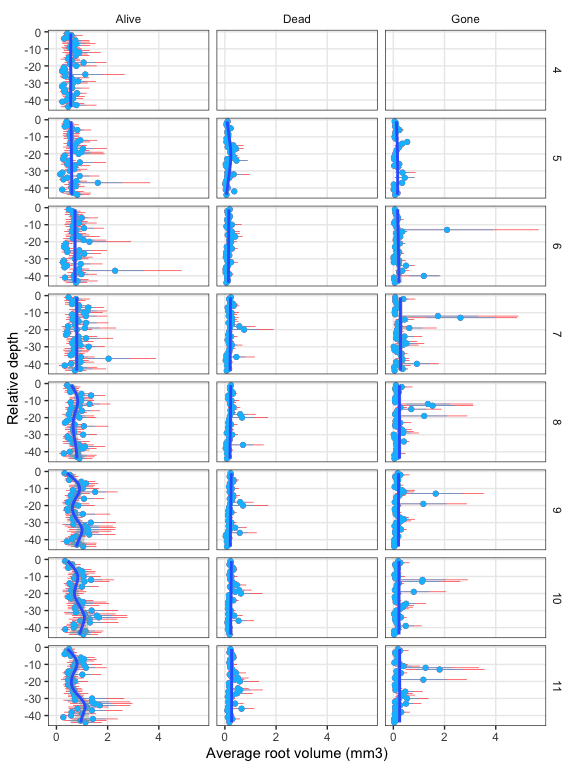
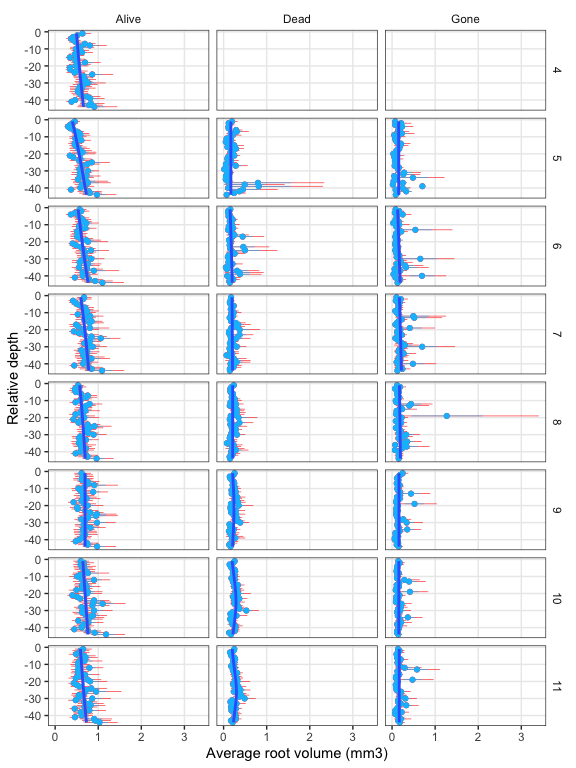
Add models and resulting updated figures. Now includes experimental treatment application.

diff --git a/production_turnover.md b/production_turnover.md
@@ -79,9 +79,9 @@ tube.”
 
 Number of new root IDs since initiation in April
 
-April roots: 1403
+April roots: 5409
 
-New roots: 2596
+New roots: 8911
 
 That’s more new root IDs than I thought there would be.
 
@@ -101,6 +101,29 @@ That’s more new root IDs than I thought there would be.
 2.  Length, Diameter, Production, Turnover by Day of Year (Month)
 
 <!-- Size (diameter) & depth biplot of days to senescence -->
+
+    ## # A tibble: 86,629 x 38
+    ##    obs_ID root_ID SampleId RootName  Tube Location Date        Time Session
+    ##    <chr>  <chr>   <chr>    <chr>    <dbl>    <dbl> <date>     <dbl>   <dbl>
+    ##  1 1_1_1… 1_1_R1  BRUROOT… R1           1        1 2020-04-21 94911       1
+    ##  2 1_1_1… 1_1_R2  BRUROOT… R2           1        1 2020-04-21 94911       1
+    ##  3 1_1_2… 1_2_R1  BRUROOT… R1           1        2 2020-04-21 94925       1
+    ##  4 1_1_2… 1_2_R2  BRUROOT… R2           1        2 2020-04-21 94925       1
+    ##  5 1_1_2… 1_2_R3  BRUROOT… R3           1        2 2020-04-21 94925       1
+    ##  6 1_1_2… 1_2_R4  BRUROOT… R4           1        2 2020-04-21 94925       1
+    ##  7 1_1_2… 1_2_R5  BRUROOT… R5           1        2 2020-04-21 94925       1
+    ##  8 1_1_2… 1_2_R6  BRUROOT… R6           1        2 2020-04-21 94925       1
+    ##  9 1_1_2… 1_2_R7  BRUROOT… R7           1        2 2020-04-21 94925       1
+    ## 10 1_1_2… 1_2_R8  BRUROOT… R8           1        2 2020-04-21 94925       1
+    ## # … with 86,619 more rows, and 29 more variables: DataGatherer <chr>,
+    ## #   BirthSession <dbl>, DeathSession <dbl>, TotLength_mm <dbl>,
+    ## #   TotProjArea_mm2 <dbl>, TotSurfArea_mm2 <dbl>, TotAvgDiam_mm <dbl>,
+    ## #   TotVolume_mm3 <dbl>, Length_mm <dbl>, ProjArea_mm2 <dbl>,
+    ## #   SurfArea_mm2 <dbl>, AvgDiam_mm <dbl>, Volume_mm3 <dbl>, TipDiam <dbl>,
+    ## #   TipLivStatus <chr>, HighestOrder <dbl>, ExtPathLength <dbl>,
+    ## #   Altitude <dbl>, root_status <chr>, rowID <chr>, Month <dbl>,
+    ## #   length_bin <fct>, diam_bin <fct>, block <dbl>, composition <chr>,
+    ## #   plot <dbl>, subplot <chr>, treatment <chr>, type <chr>
 
 ## Production and loss (change) of individual roots
 
@@ -124,18 +147,18 @@ can then be aggregated to the depth window.
 ## given the definition of gross gain & loss could do only 'Alive'
 ind_chg <- df %>% 
   select(obs_ID, root_ID, Tube, Location, Date, Session, Month, root_status, 
-         Length_mm, AvgDiam_cm, Volume_mm3) %>% 
+         Length_mm, AvgDiam_mm, Volume_mm3, treatment) %>% 
   arrange(root_ID, Session) %>% 
-  group_by(root_ID, root_status, Tube, Location) %>% 
+  group_by(root_ID, root_status, Tube, Location, treatment) %>% 
   # lag subtracts the previous value; NAs when there is no value to subtract
   mutate(length_change = Length_mm - lag(Length_mm, n = 1),
-         diam_change = AvgDiam_cm - lag(AvgDiam_cm, n = 1),
+         diam_change = AvgDiam_mm - lag(AvgDiam_mm, n = 1),
          volume_change = Volume_mm3 - lag(Volume_mm3, n = 1)) %>% 
   ungroup(.)
 
 ## Not a very elegant solution follows...
 ind_gross_chg <- ind_chg %>% 
-  # select(-Length_mm:-Volume_mm3) %>%
+  select(-Length_mm:-Volume_mm3) %>%
   rename(length = length_change, diameter = diam_change, 
          volume = volume_change) %>% 
   # long format to use metric as grouping variable
@@ -145,7 +168,7 @@ ind_gross_chg <- ind_chg %>%
 growth <- ind_gross_chg %>% 
   # summarise growth of existing roots to each depth
   filter(root_status == 'Alive', value >= 0) %>% 
-  group_by(Tube, Location, Month, name) %>% 
+  group_by(Tube, Location, Month, name, treatment) %>% 
   summarise(root_growth = sum(value)) %>% 
   ungroup(.)
 # summary(growth)
@@ -154,17 +177,20 @@ growth <- ind_gross_chg %>%
 new_roots <- ind_gross_chg %>%
   # only roots that have NA for the change value
   filter(Month > 4, root_status == 'Alive', is.na(value)) %>% 
-  distinct(root_ID, Tube, Location, Month) %>% 
+  distinct(root_ID, Tube, Location, Month, treatment) %>% 
   # get only these root IDs & recombine with gross values
   left_join(., ind_chg %>% select(root_ID, Tube, Location, Month, Length_mm:Volume_mm3)) %>%
   # rename in prep for joining with 'growth' data frame
-  rename(length = Length_mm, diameter = AvgDiam_cm, 
+  rename(length = Length_mm, diameter = AvgDiam_mm, 
          volume = Volume_mm3) %>%
   # match data format of 'growth'
   pivot_longer(length:volume) %>% 
-  group_by(Tube, Location, Month, name) %>% 
+  group_by(Tube, Location, Month, name, treatment) %>% 
   summarise(new_roots = sum(value)) %>% 
   ungroup(.)
+# summary(new_roots)
+# new_roots %>% filter(new_roots>100)
+
 # join growth with new roots
 gain_depth <- left_join(growth, new_roots)
 # add growth & new roots to get gross gain
@@ -174,12 +200,30 @@ gain_depth <- gain_depth %>%
     new_roots = ifelse(is.na(new_roots), 0, new_roots),
     gross_gain = root_growth + new_roots
     )
+gain_depth %>% summary()
+```
 
+    ##       Tube         Location         Month           name          
+    ##  Min.   : 1.0   Min.   : 1.00   Min.   : 5.00   Length:16255      
+    ##  1st Qu.: 7.0   1st Qu.:10.00   1st Qu.: 6.00   Class :character  
+    ##  Median :12.0   Median :21.00   Median : 8.00   Mode  :character  
+    ##  Mean   :12.4   Mean   :21.39   Mean   : 8.04                     
+    ##  3rd Qu.:18.0   3rd Qu.:32.00   3rd Qu.:10.00                     
+    ##  Max.   :24.0   Max.   :44.00   Max.   :11.00                     
+    ##   treatment          root_growth         new_roots          gross_gain       
+    ##  Length:16255       Min.   : 0.00000   Min.   :  0.0000   Min.   :  0.00000  
+    ##  Class :character   1st Qu.: 0.00000   1st Qu.:  0.0000   1st Qu.:  0.03277  
+    ##  Mode  :character   Median : 0.04462   Median :  0.0422   Median :  0.38890  
+    ##                     Mean   : 1.20244   Mean   :  2.2153   Mean   :  3.41773  
+    ##                     3rd Qu.: 0.61790   3rd Qu.:  0.8222   3rd Qu.:  2.09355  
+    ##                     Max.   :55.05780   Max.   :191.7091   Max.   :195.50220
+
+``` r
 # gross loss = loss in 'Alive' + 'Dead' + 'Gone' 
 # get loss in 'Alive' roots (analogous to 'growth')
 loss <- ind_gross_chg %>%
   filter(root_status == 'Alive' & value < 0) %>% 
-  group_by(Tube, Location, Month, name) %>% 
+  group_by(Tube, Location, Month, name, treatment) %>% 
   summarise(root_loss = sum(abs(value))) %>% 
   ungroup(.)
 
@@ -189,12 +233,12 @@ dead_gone <- ind_gross_chg %>%
   filter(Month > 4, root_status %in% c('Dead', 'Gone'),
          is.na(value)) %>% 
   # get only these root IDs & recombine with gross values
-  distinct(root_ID, Tube, Location, Month) %>% 
-  left_join(., ind_chg %>% select(root_ID, Tube, Location, Month, Length_mm:Volume_mm3)) %>%
-  rename(length = Length_mm, diameter = AvgDiam_cm,
+  distinct(root_ID, Tube, Location, Month, treatment) %>% 
+  left_join(., ind_chg %>% select(root_ID, Tube, Location, Month, Length_mm:Volume_mm3, treatment)) %>%
+  rename(length = Length_mm, diameter = AvgDiam_mm,
          volume = Volume_mm3) %>%
   pivot_longer(length:volume) %>% 
-  group_by(Tube, Location, Month, name) %>% 
+  group_by(Tube, Location, Month, name, treatment) %>% 
   summarise(dg_roots = sum(value)) %>% 
   ungroup(.)
 
@@ -202,11 +246,29 @@ loss_depth <- left_join(dead_gone, loss)
 loss_depth <- loss_depth %>% 
   mutate(root_loss = ifelse(is.na(root_loss), 0, root_loss),
     gross_loss = dg_roots + root_loss)
+summary(loss_depth)
+```
 
+    ##       Tube          Location         Month            name          
+    ##  Min.   : 1.00   Min.   : 1.00   Min.   : 5.000   Length:11628      
+    ##  1st Qu.: 7.00   1st Qu.: 8.00   1st Qu.: 6.000   Class :character  
+    ##  Median :12.00   Median :19.00   Median : 8.000   Mode  :character  
+    ##  Mean   :12.57   Mean   :19.83   Mean   : 7.987                     
+    ##  3rd Qu.:18.00   3rd Qu.:30.00   3rd Qu.:10.000                     
+    ##  Max.   :24.00   Max.   :44.00   Max.   :11.000                     
+    ##   treatment            dg_roots         root_loss         gross_loss      
+    ##  Length:11628       Min.   : 0.0012   Min.   : 0.0000   Min.   :  0.0012  
+    ##  Class :character   1st Qu.: 0.2394   1st Qu.: 0.0000   1st Qu.:  0.3794  
+    ##  Mode  :character   Median : 0.6838   Median : 0.1011   Median :  1.0079  
+    ##                     Mean   : 3.2680   Mean   : 1.8182   Mean   :  5.0862  
+    ##                     3rd Qu.: 2.7437   3rd Qu.: 1.2390   3rd Qu.:  5.2337  
+    ##                     Max.   :94.6837   Max.   :63.2020   Max.   :140.3168
+
+``` r
 # Combine so that gross gain and gross loss are in one data frame
 gross_change <- df %>%
   filter(Month > 4) %>% 
-  distinct(Tube, Location, Month) %>% 
+  distinct(Tube, Location, Month, treatment) %>% 
   left_join(., gain_depth) %>% 
   left_join(., loss_depth)
 ```
@@ -222,41 +284,42 @@ Sanity Check
 ``` r
 df1 <- left_join(
   df %>% filter(root_status == "Alive") %>% 
-    group_by(Tube, Location, Month) %>% 
+    group_by(Tube, Location, Month, treatment) %>% 
     summarise(TotLength_mm = sum(TotLength_mm)),
   gross_change %>% 
     filter(name == "length")
-)
+) %>% 
+  ungroup(.)
 df1 <- df1 %>% 
   select(Tube:TotLength_mm, gross_gain, gross_loss) %>% 
   mutate(calc_net = lag(TotLength_mm, n = 1) + gross_gain - gross_loss)
+# View(df1)
 
 # A peek at the resulting dataframe
 df1
 ```
 
-    ## # A tibble: 2,521 x 7
-    ## # Groups:   Tube, Location [347]
-    ##     Tube Location Month TotLength_mm gross_gain gross_loss calc_net
-    ##    <dbl>    <dbl> <dbl>        <dbl>      <dbl>      <dbl>    <dbl>
-    ##  1    12        1     4       105.         NA        NA        NA  
-    ##  2    12        1     5       130.         39.3      12.6     132. 
-    ##  3    12        1     6        74.5        21.2      76.9      74.5
-    ##  4    12        1     7         9.79       NA        NA        NA  
-    ##  5    12        1     8        20.9        15.8       4.70     20.9
-    ##  6    12        1    11         4.44       NA        NA        NA  
-    ##  7    12        2     4        46.5        NA        NA        NA  
-    ##  8    12        2     5        63.7        20.9       3.66     63.7
-    ##  9    12        2     6        59.8        24.1      28.0      59.8
-    ## 10    12        2     7        41.9        18.2      36.1      41.9
-    ## # … with 2,511 more rows
+    ## # A tibble: 7,485 x 8
+    ##     Tube Location Month treatment TotLength_mm gross_gain gross_loss calc_net
+    ##    <dbl>    <dbl> <dbl> <chr>            <dbl>      <dbl>      <dbl>    <dbl>
+    ##  1     1        1     4 control           23.2      NA         NA        NA  
+    ##  2     1        1     5 control           11.3      NA         NA        NA  
+    ##  3     1        1     6 control           62.3      37.7        1.78     47.2
+    ##  4     1        1     7 control           76.2      37.9       24.0      76.2
+    ##  5     1        1     8 control           78.5       7.59      16.7      67.1
+    ##  6     1        1     9 control           36.6      11.6       53.6      36.6
+    ##  7     1        1    10 control           65.6       9.52      23.3      22.8
+    ##  8     1        1    11 control           77.7      18.6        6.40     77.7
+    ##  9     1        2     4 control           27.0      NA         NA        NA  
+    ## 10     1        2     5 control           54.0      42.8       15.7      54.0
+    ## # … with 7,475 more rows
 
 ``` r
 ggplot(df1, aes(TotLength_mm, calc_net)) +
   geom_point() +
   geom_abline(slope = 1) +
   ylab("Calculated net of gross gain and gross loss") +
-  xlab("Observed minirhizo length (mm)") +
+  xlab("Observed minirhizo TotLength (mm)") +
   theme_classic() +
   NULL
 ```
@@ -269,7 +332,71 @@ ggplot(df1, aes(TotLength_mm, calc_net)) +
 with(df1, cor(calc_net, TotLength_mm, use = "complete.obs"))
 ```
 
-    ## [1] 0.9975949
+    ## [1] 0.9977771
+
+![](production_turnover_files/figure-gfm/model%20gross%20change-1.png)<!-- -->
+
+    ## Linear mixed model fit by REML ['lmerMod']
+    ## Formula: gl_sum ~ clipped + clipped:manure + (1 | Location) + (1 | Tube)
+    ##    Data: d
+    ## 
+    ## REML criterion at convergence: 10162.3
+    ## 
+    ## Scaled residuals: 
+    ##     Min      1Q  Median      3Q     Max 
+    ## -3.3366 -0.6148 -0.1965  0.4938  4.2910 
+    ## 
+    ## Random effects:
+    ##  Groups   Name        Variance Std.Dev.
+    ##  Location (Intercept)  274.9   16.58   
+    ##  Tube     (Intercept)  745.0   27.30   
+    ##  Residual             1237.7   35.18   
+    ## Number of obs: 1007, groups:  Location, 44; Tube, 24
+    ## 
+    ## Fixed effects:
+    ##                      Estimate Std. Error t value
+    ## (Intercept)           44.8324    10.1592   4.413
+    ## clippedyes            -5.1014    13.9212  -0.366
+    ## clippedyes:manureyes   0.9263    13.9121   0.067
+    ## 
+    ## Correlation of Fixed Effects:
+    ##             (Intr) clppdy
+    ## clippedyes  -0.686       
+    ## clppdys:mnr  0.000 -0.500
+    ## fit warnings:
+    ## fixed-effect model matrix is rank deficient so dropping 1 column / coefficient
+
+    ## Linear mixed model fit by REML ['lmerMod']
+    ## Formula: gg_sum ~ clipped + clipped:manure + (1 | Location) + (1 | Tube)
+    ##    Data: d
+    ## 
+    ## REML criterion at convergence: 10207.4
+    ## 
+    ## Scaled residuals: 
+    ##     Min      1Q  Median      3Q     Max 
+    ## -3.8905 -0.6180 -0.1598  0.4761  5.2857 
+    ## 
+    ## Random effects:
+    ##  Groups   Name        Variance Std.Dev.
+    ##  Location (Intercept)  235.6   15.35   
+    ##  Tube     (Intercept)  933.3   30.55   
+    ##  Residual             1299.2   36.04   
+    ## Number of obs: 1007, groups:  Location, 44; Tube, 24
+    ## 
+    ## Fixed effects:
+    ##                      Estimate Std. Error t value
+    ## (Intercept)            54.924     11.227   4.892
+    ## clippedyes             -8.539     15.532  -0.550
+    ## clippedyes:manureyes   -2.092     15.524  -0.135
+    ## 
+    ## Correlation of Fixed Effects:
+    ##             (Intr) clppdy
+    ## clippedyes  -0.692       
+    ## clppdys:mnr  0.000 -0.500
+    ## fit warnings:
+    ## fixed-effect model matrix is rank deficient so dropping 1 column / coefficient
+
+![](production_turnover_files/figure-gfm/model%20gross%20change-2.png)<!-- -->
 
 ## Root measurements aggregated to depth window (“location”)
 
